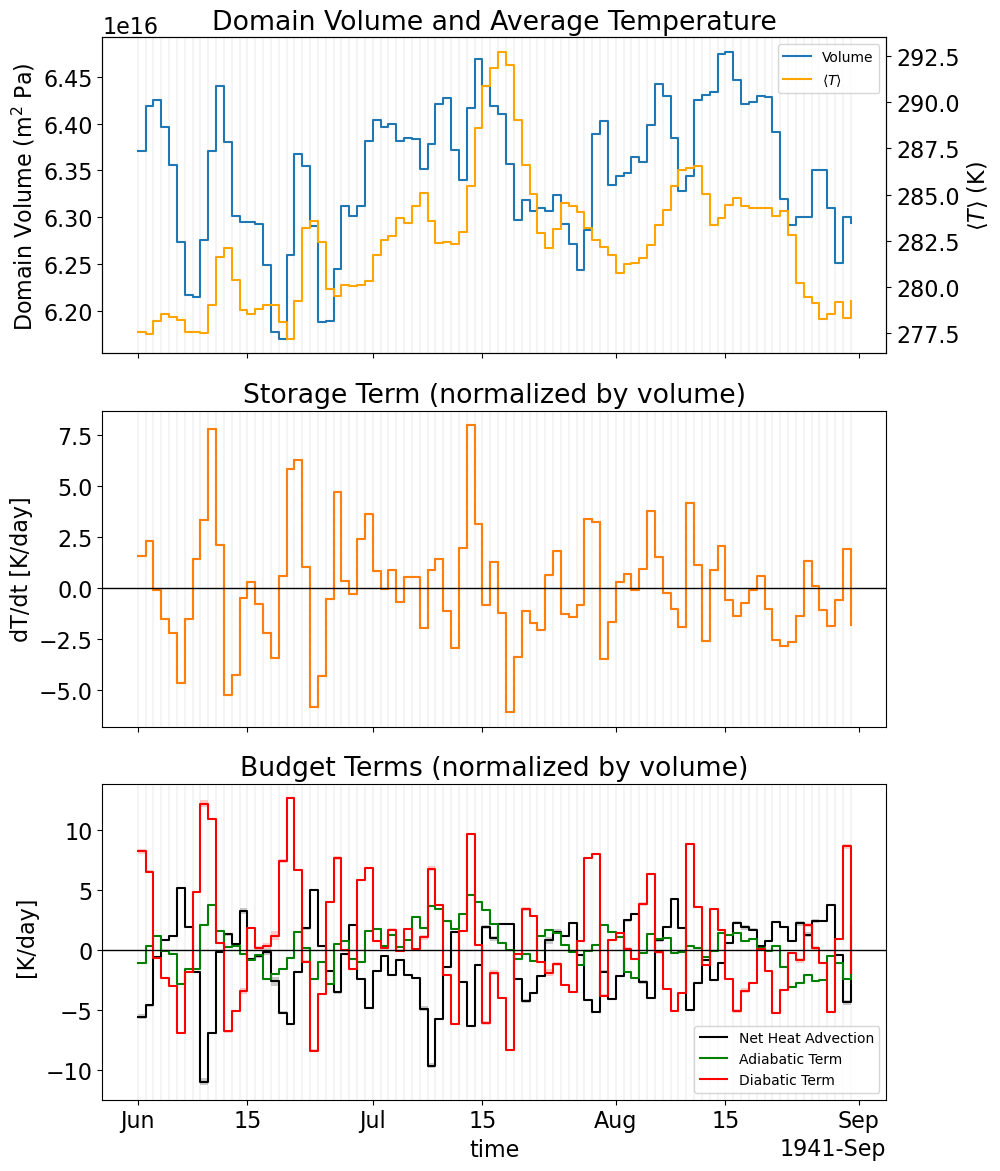
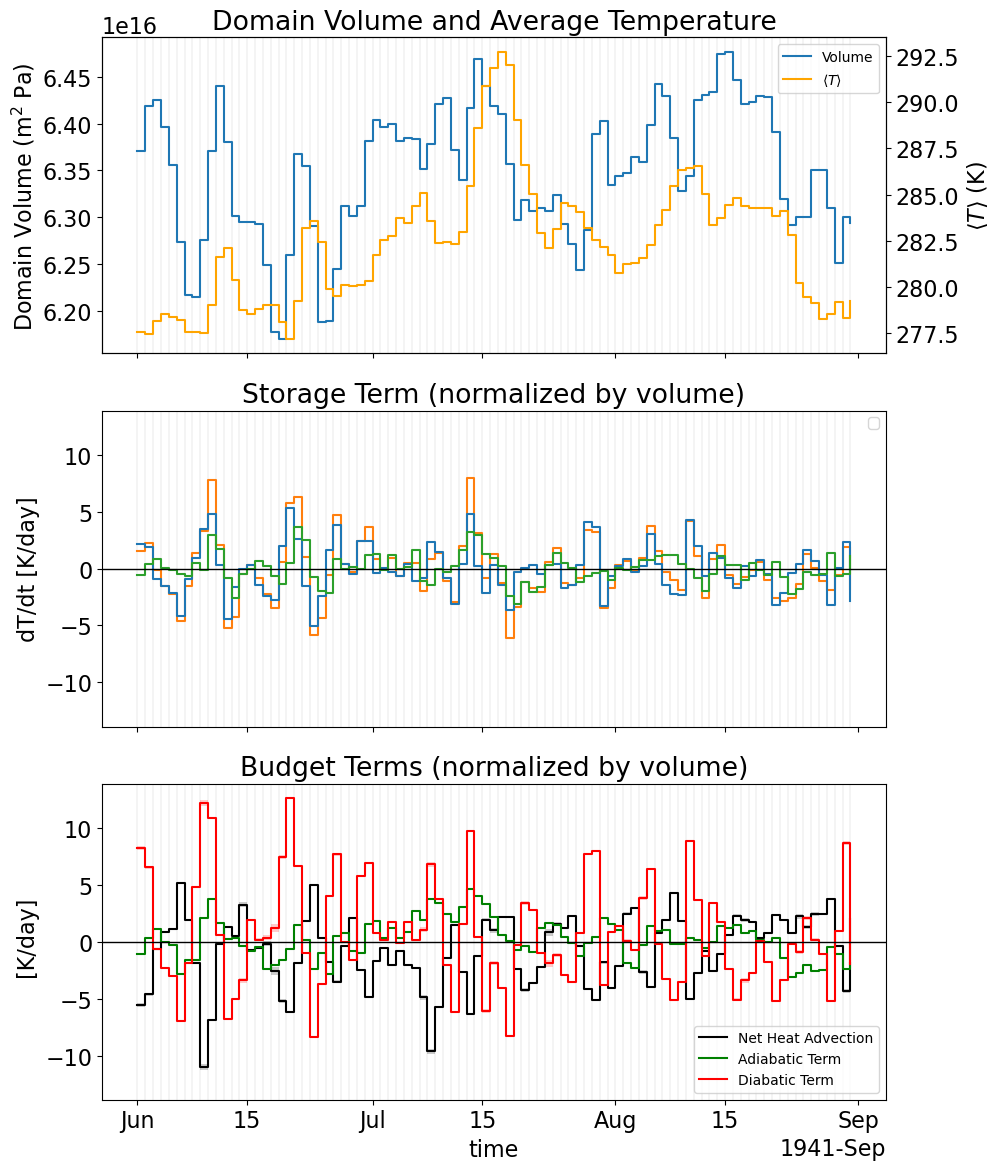
removed bug in terms.py

diff --git a/src/budget.py b/src/budget.py
@@ -27,7 +27,8 @@ def calculate_budget(ds_domain: xr.Dataset, ds_halo: xr.Dataset, DomainSpecs: Do
     ds_vertical_cell_areas   = grid.get_vertical_cell_areas(ds_halo).astype("float64")
 
     # combine east, west, south, north + top (and bottom)
-    ds_cell_areas = xr.merge([ds_horizontal_cell_areas, ds_vertical_cell_areas])
+    ds_cell_areas = xr.merge([ds_horizontal_cell_areas, ds_vertical_cell_areas],
+                             compat="override", join='outer')
 
     ds_cell_volumes = grid.get_cell_volumes(ds_domain).astype("float64")
 
@@ -37,7 +38,7 @@ def calculate_budget(ds_domain: xr.Dataset, ds_halo: xr.Dataset, DomainSpecs: Do
 
     ds_weights_areas = xr.merge(
         [ds_weights_horizontal, ds_weights_vertical],
-        compat="no_conflicts",
+        compat="override", join='outer'
     )
 
     # pre-compute differential terms for advective, and adiabatic components
@@ -61,10 +62,10 @@ def calculate_budget(ds_domain: xr.Dataset, ds_halo: xr.Dataset, DomainSpecs: Do
     T_domain_avg = T_domain_avg.sel(time=dT_dt['time'])
 
     ds_domain_adv      = ds_domain.copy(deep=True)
-    ds_domain_adv['T'] = ds_domain['T'] - 273
+    ds_domain_adv['T'] = ds_domain_adv['T'] - np.nanmean(T_domain_avg.values) # remove domain average to isolate advective anomalies
 
     ds_halo_adv      = ds_halo.copy(deep=True)
-    ds_halo_adv['T'] = ds_halo['T'] - 273
+    ds_halo_adv['T'] = ds_halo_adv['T'] - np.nanmean(T_domain_avg.values) # remove domain average to isolate advective anomalies
 
     print(np.nanmean(T_domain_avg.values))
     print(np.nanmean(ds_domain_adv['T'].values))

diff --git a/src/terms.py b/src/terms.py
@@ -66,8 +66,8 @@ def compute_storage(T: xr.DataArray,
 
     return dT_dt
 
-def compute_advective_term(ds_domain_in: xr.Dataset, #A
-                           ds_halo_in: xr.Dataset,
+def compute_advective_term(ds_domain: xr.Dataset, #A
+                           ds_halo: xr.Dataset,
                            ds_cell_areas: xr.Dataset,
                            ds_weights_areas: xr.Dataset,
                            DomainSpecs: DomainSpec,
@@ -75,13 +75,6 @@ def compute_advective_term(ds_domain_in: xr.Dataset, #A
     r'''
     math term: -\int T U \cdot dA
     '''
-    
-    ds_halo = ds_halo_in.copy(deep=True)
-    ds_domain = ds_domain_in.copy(deep=True)
-
-    ds_halo['T']   = ds_halo['T'] - 273.15
-    ds_domain['T'] = ds_domain['T'] - 273.15
-
     # Compute velocity at cell faces for advection term
     # top/bottom - vertical velocity at top/bottom walls needed for advective fluxes
     w_top = ds_halo['w'].sel(level=DomainSpecs.zg_top_pressure, method=None)  # vertical velocity at top wall
